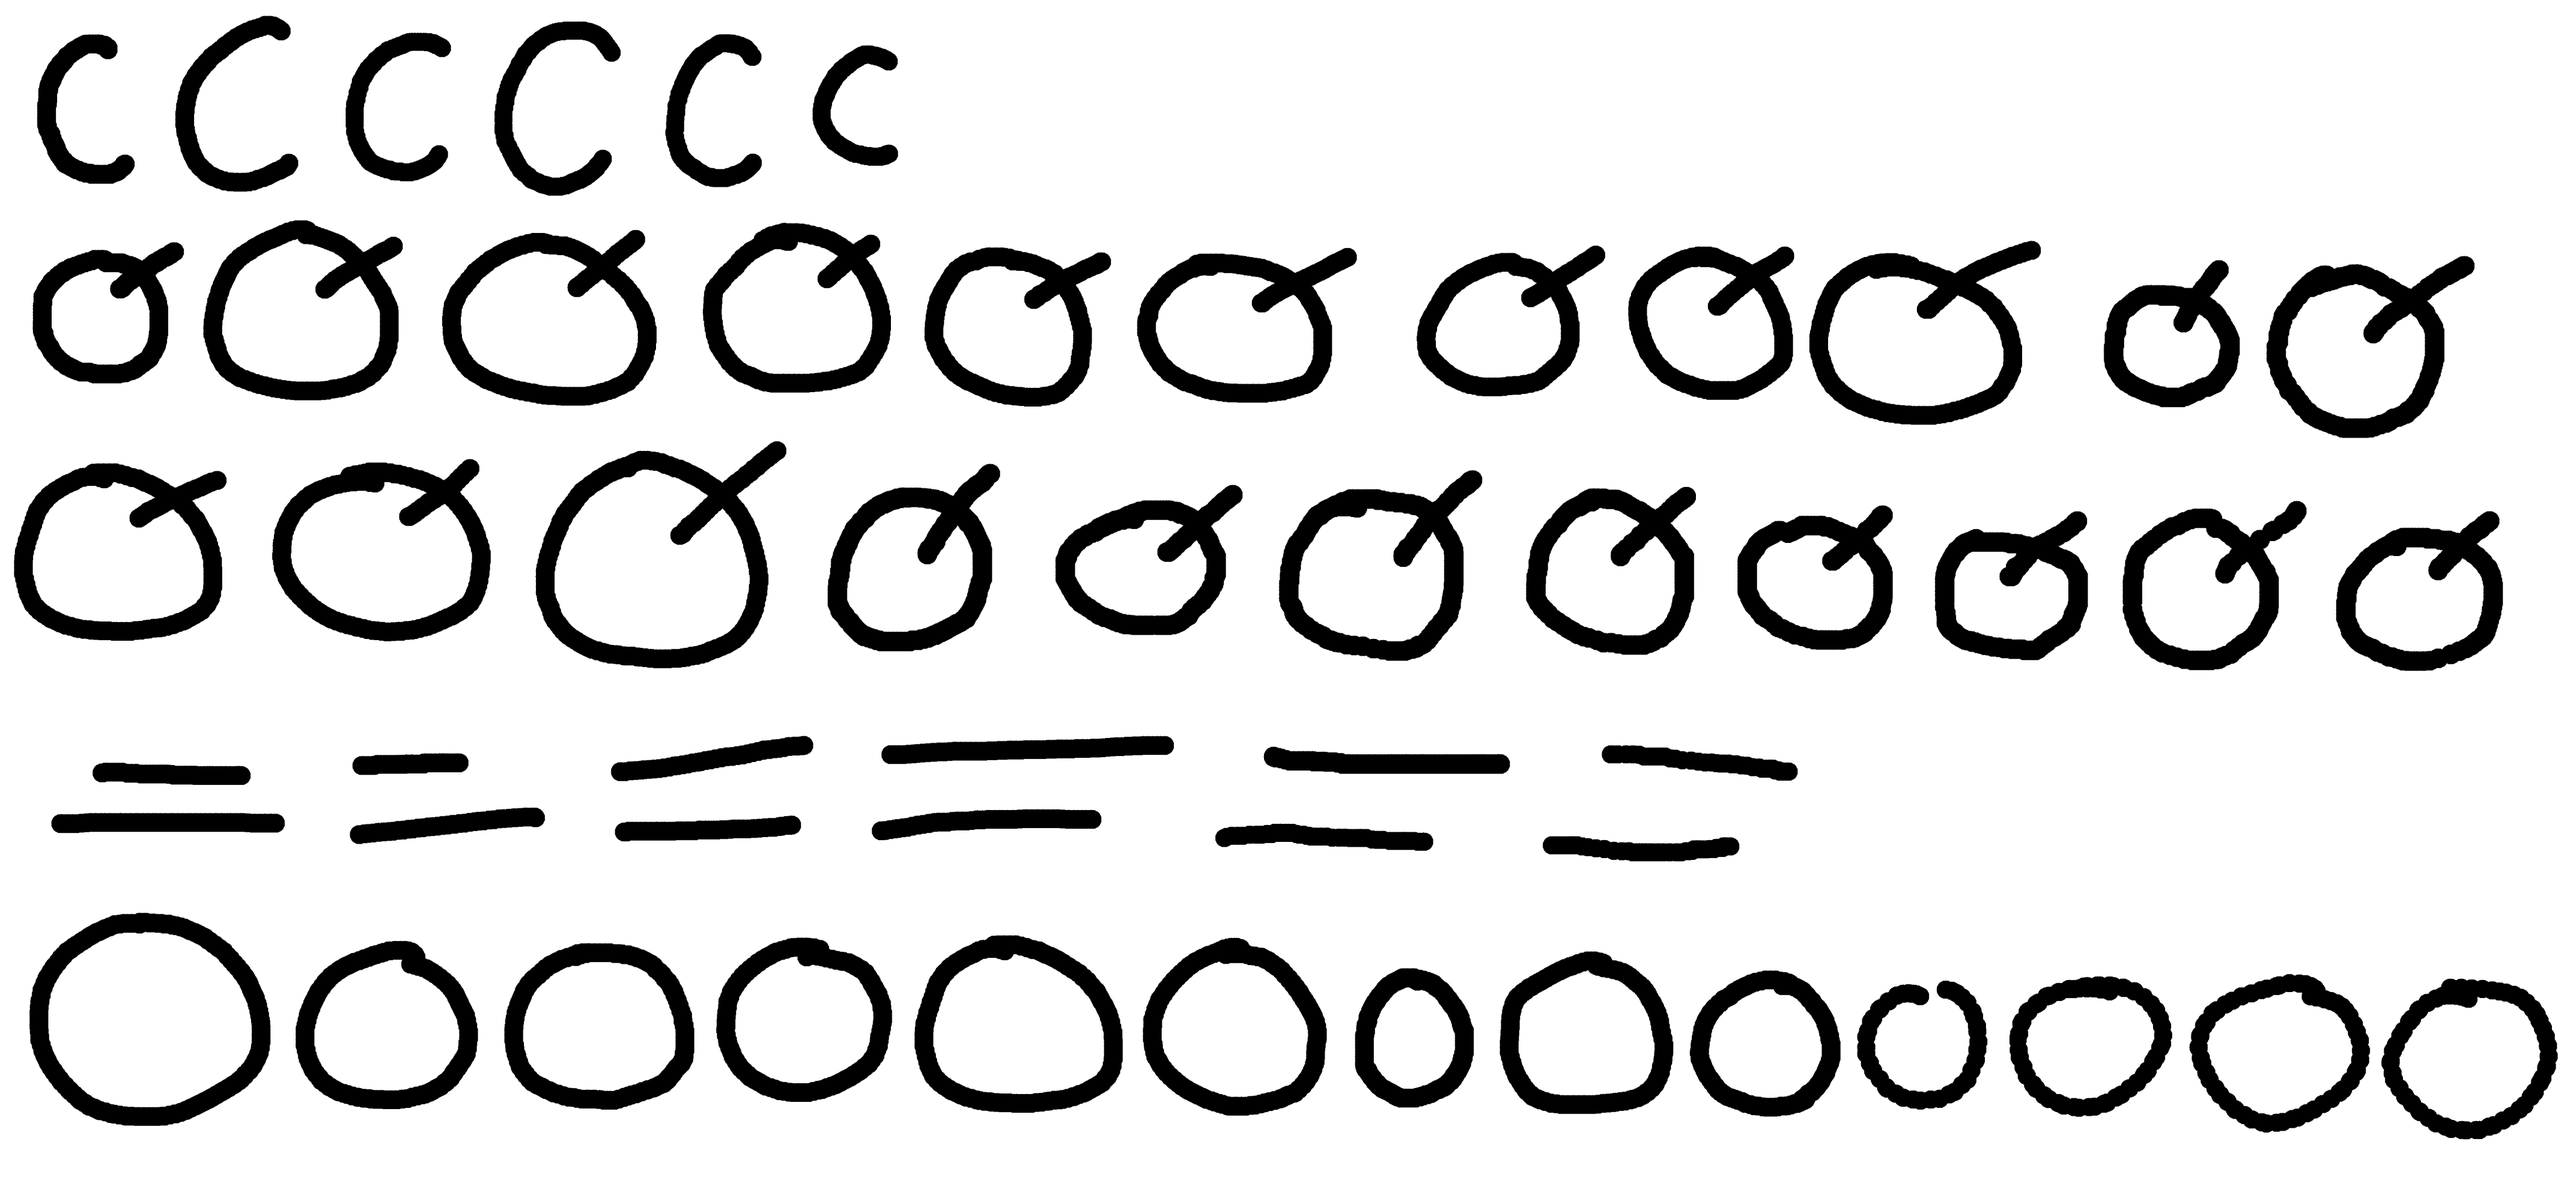
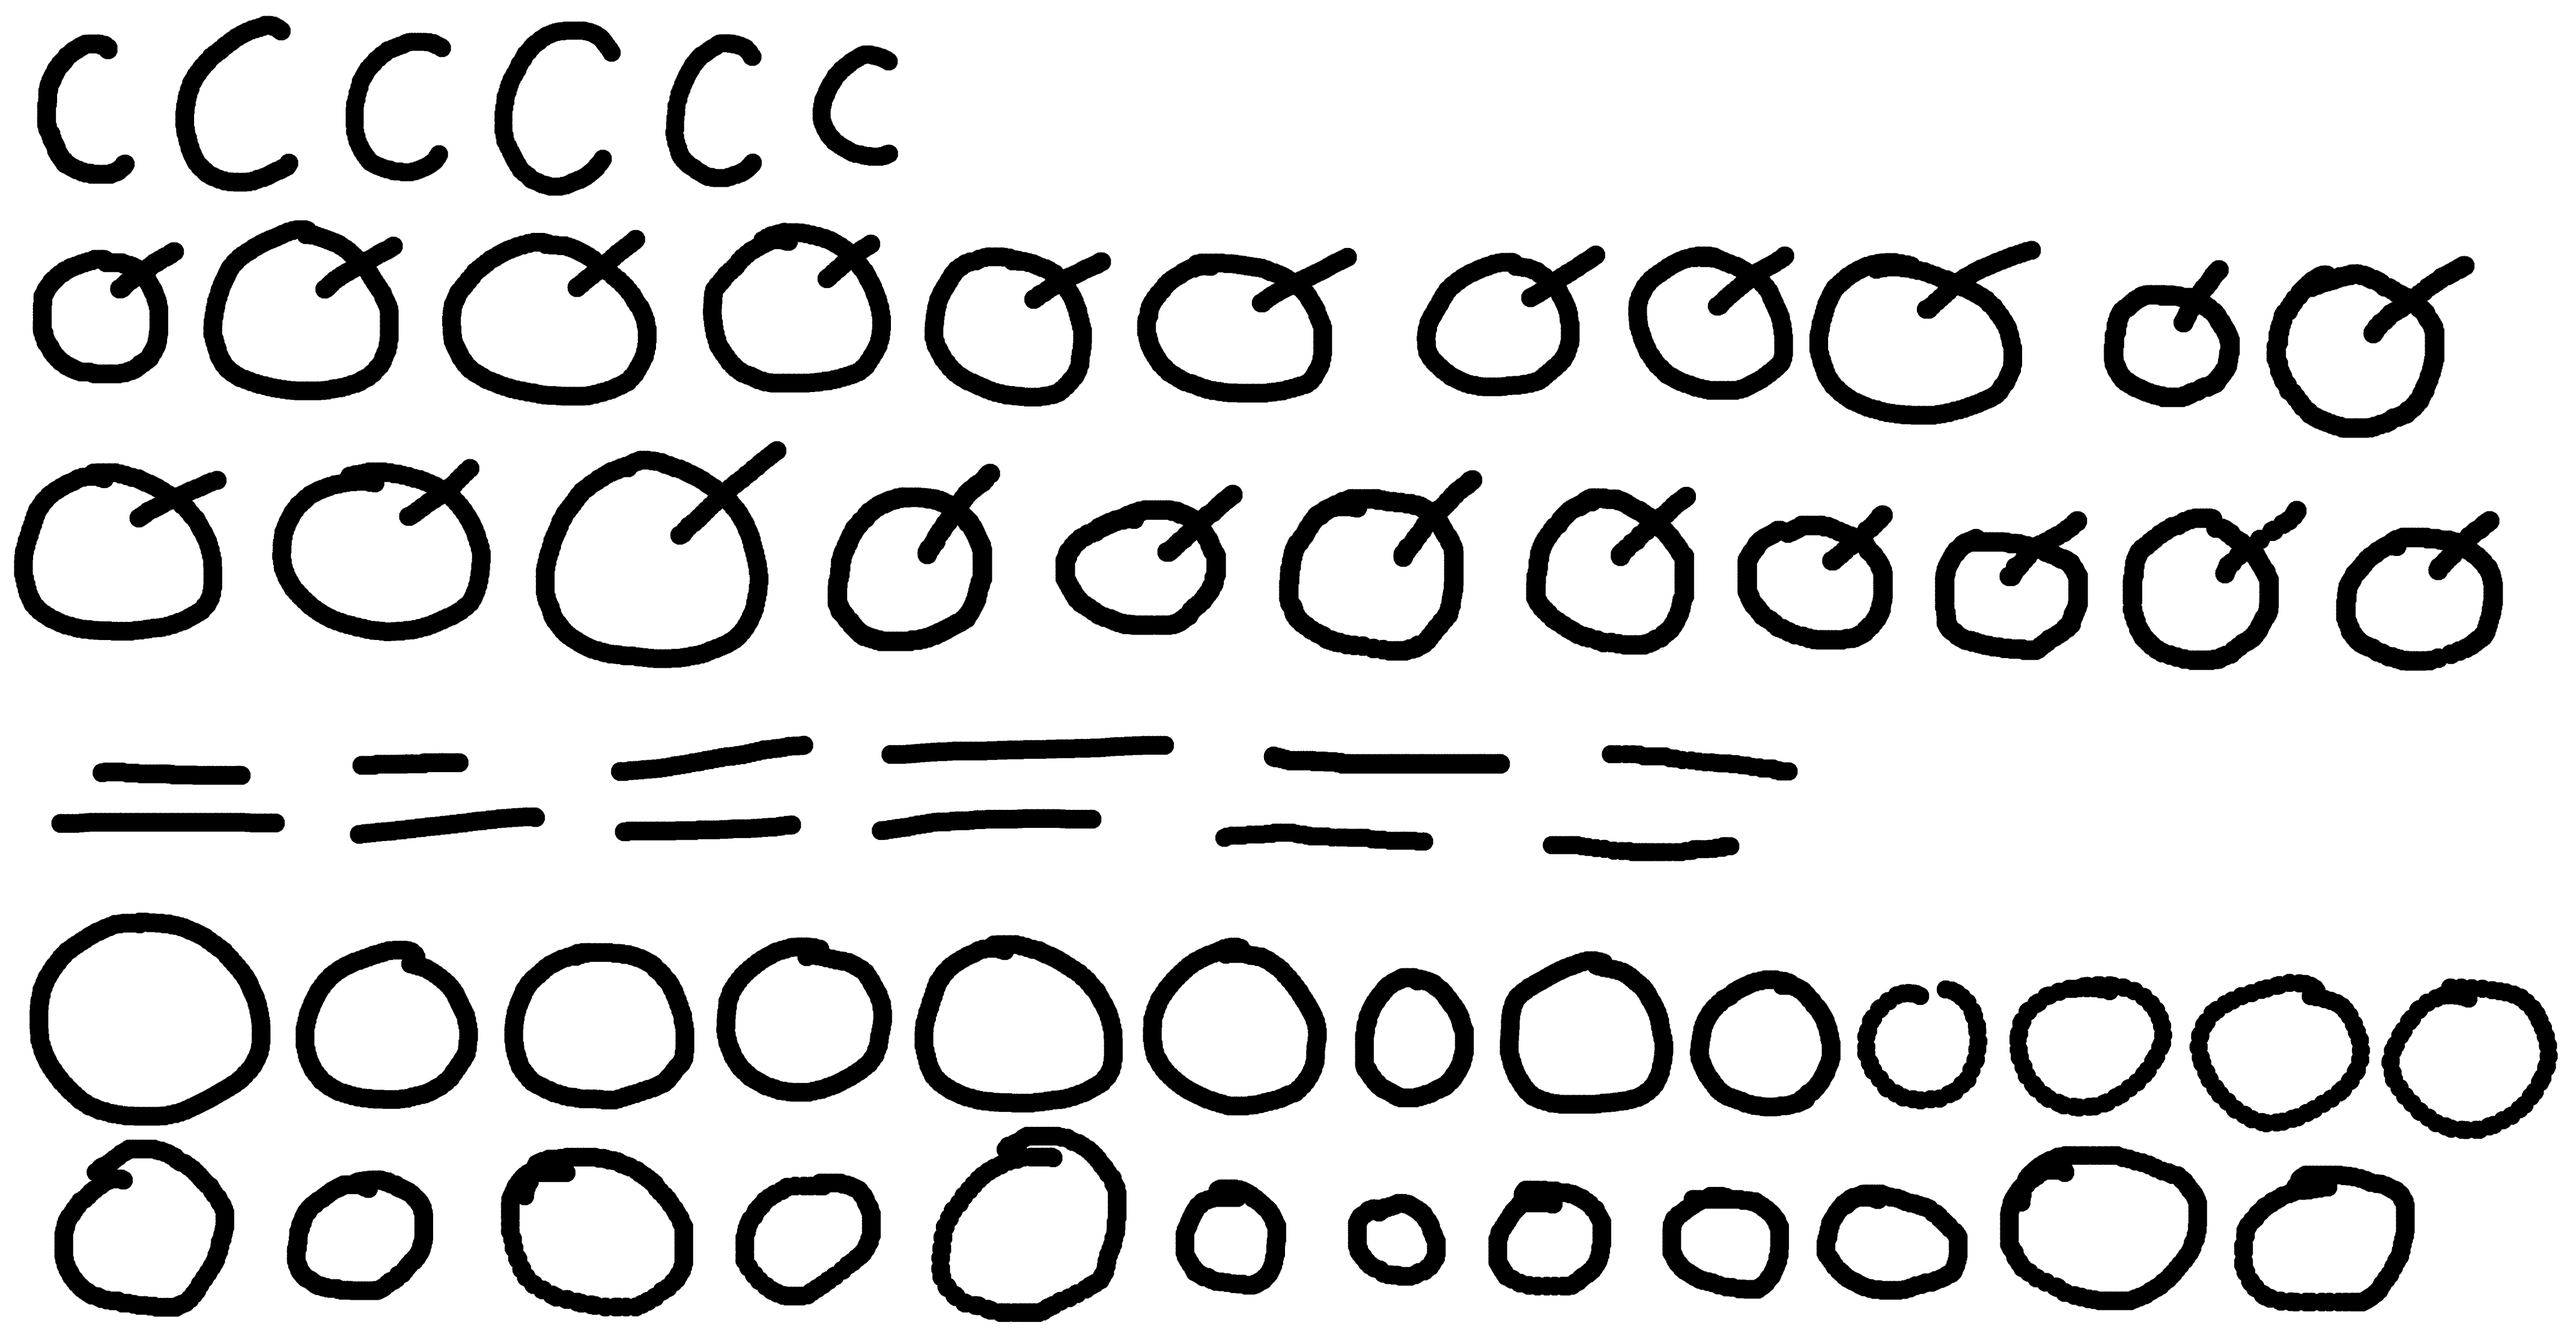
Fixed bomb explosion responsiveness

diff --git a/Game/BreakableRock.cpp b/Game/BreakableRock.cpp
@@ -4,24 +4,11 @@
 #include "Components\3D\ModelInstance.h"
 #include "Assets\Model.h"
 
-void BreakableRock::OnTriggerEnter(Collider* aCollider)
+void BreakableRock::Break()
 {
-	if (aCollider->GetCollisionLayer() == static_cast<int>(CollisionLayer::Bomb))
-	{
-		myModel = myGameObject->GetComponent<ModelInstance>();
-		myModel->SetModel(AssetRegistry::GetInstance()->GetAsset<Model>("brokenrock"));
-		myIsLerping = true;
-	}
-}
-
-void BreakableRock::OnOverlapBegin(Collider* aCollider)
-{
-	if (aCollider->GetCollisionLayer() == static_cast<int>(CollisionLayer::Bomb))
-	{
-		myModel = myGameObject->GetComponent<ModelInstance>();
-		myModel->SetModel(AssetRegistry::GetInstance()->GetAsset<Model>("brokenrock"));
-		myIsLerping = true;
-	}
+	myModel = myGameObject->GetComponent<ModelInstance>();
+	myModel->SetModel(AssetRegistry::GetInstance()->GetAsset<Model>("brokenrock"));
+	myIsLerping = true;
 }
 
 

diff --git a/Game/Bomb.cpp b/Game/Bomb.cpp
@@ -3,6 +3,8 @@
 #include "Components\Physics\RigidBody.h"
 #include "Components\CameraShake.h"
 #include "Components\Physics\Collisions\Collider.h"
+#include <Physics\PhysXUtilities.h>
+#include "BreakableRock.h"
 
 void Bomb::Awake()
 {
@@ -44,6 +46,18 @@ void Bomb::Update()
 		Engine::GetInstance()->GetActiveCamera()->GetGameObject().GetComponent<CameraShake>()->Start();
 		auto explosion = InstantiatePrefab("BombExplosion");
 		explosion->GetTransform()->SetWorldPos(myTransform->worldPos());
+
+		std::vector<GameObject*> objectsInRadius;
+		objectsInRadius = PhysXUtilities::OverlapMultiple(myTransform->worldPos(), 3, 0 << static_cast<int>(CollisionLayer::Interact));
+		for (auto& obj : objectsInRadius)
+		{
+			BreakableRock* rock = obj->GetComponent<BreakableRock>();
+			if (rock)
+			{
+				rock->Break();
+			}
+		}
+
 		myGameObject->Destroy();
 	}
 }

diff --git a/Game/Paintbrush.cpp b/Game/Paintbrush.cpp
@@ -188,18 +188,7 @@ void Paintbrush::Update()
 
 	myTransform->SetWorldPos(newPos);
 
-	/*if (Input::GetKeyReleased(KeyCode::S))
-	{
-		Canvas::GetInstance()->Save();
-	}
-
-	if (Input::GetKeyReleased(KeyCode::C))
-	{
-		Canvas::GetInstance()->Clear();
-	}*/
-
-
-	if (Input::GetKeyReleased(KeyCode::CTRL))
+	if (Input::GetKeyReleased(KeyCode::S))
 	{
 		Canvas::GetInstance()->Save(myTarget);
 		myTarget = BrushTarget::Default;
@@ -209,4 +198,17 @@ void Paintbrush::Update()
 	{
 		Canvas::GetInstance()->Generate();
 	}
+
+	if (Input::GetKeyReleased(KeyCode::C))
+	{
+		Canvas::GetInstance()->Clear();
+	}
+
+	if (Input::GetKeyReleased(KeyCode::CTRL))
+	{
+		Canvas::GetInstance()->Save(myTarget);
+		myTarget = BrushTarget::Default;
+	}
+
+	
 }

diff --git a/Catbox/Physics/PhysicsEngine.cpp b/Catbox/Physics/PhysicsEngine.cpp
@@ -189,6 +189,7 @@ physx::PxRigidActor* PhysicsEngine::CreateDynamicActor(Shape aShape, Vector3f aS
 	}
 	else if (aShape == Shape::PxS_Circle)
 	{
+		aDebugMode = true;
 		if (aIsTrigger)
 		{
 			actorShape = myPxPhysics->createShape(physx::PxSphereGeometry(std::max(std::max(aSize.x, aSize.y), aSize.z)), *myPhysxMaterialMap.find(aMaterialName)->second, physx::PxShapeFlag::eTRIGGER_SHAPE);
@@ -750,7 +751,7 @@ void DefaultSimulationCallback::onTrigger(physx::PxTriggerPair* pairs, physx::Px
 				{
 					tempCollider = otherObject->GetComponent<MeshCollider>();
 				}
-				triggerObject->OnTriggerEnter(tempCollider);
+				otherObject->OnTriggerEnter(tempCollider);
 			}
 		}
 	}

diff --git a/Game/GameScene.cpp b/Game/GameScene.cpp
@@ -33,7 +33,7 @@ void GameScene::PerformAction(BrushSymbol& anAction)
 	Ray ray;
 	ray.InitWithOriginAndDirection(cam->GetTransform()->worldPos(), rayDir);
 	Vector3f intersectionOut;
-	Collider* colliderHit = Engine::GetInstance()->GetCollisionManager()->RayIntersect(ray, 8, { 0 }, intersectionOut, true);
+	Collider* colliderHit = Engine::GetInstance()->GetCollisionManager()->RayIntersect(ray, 10, { 0 }, intersectionOut, true);
 
 
 	//SUN, LILYPAD

diff --git a/Game/BreakableRock.h b/Game/BreakableRock.h
@@ -4,9 +4,8 @@ class ModelInstance;
 class BreakableRock : public Component
 {
 public:
-	void OnTriggerEnter(Collider* aCollider) override;
-	void OnOverlapBegin(Collider* aCollider) override;
 	void Update() override;
+	void Break();
 
 private:
 

diff --git a/Catbox/Components/Physics/Collisions/SphereCollider.cpp b/Catbox/Components/Physics/Collisions/SphereCollider.cpp
@@ -132,7 +132,7 @@ void SphereCollider::RunInEditor()
 
 void SphereCollider::Update()
 {
-	if (!myHasLoadedPos && myHasSavedPos)
+	if (!myHasLoadedPos && myHasSavedPos && myRb)
 	{
 		myRb->SetActorPosition(mySpawnPos);
 		myHasLoadedPos = true;
